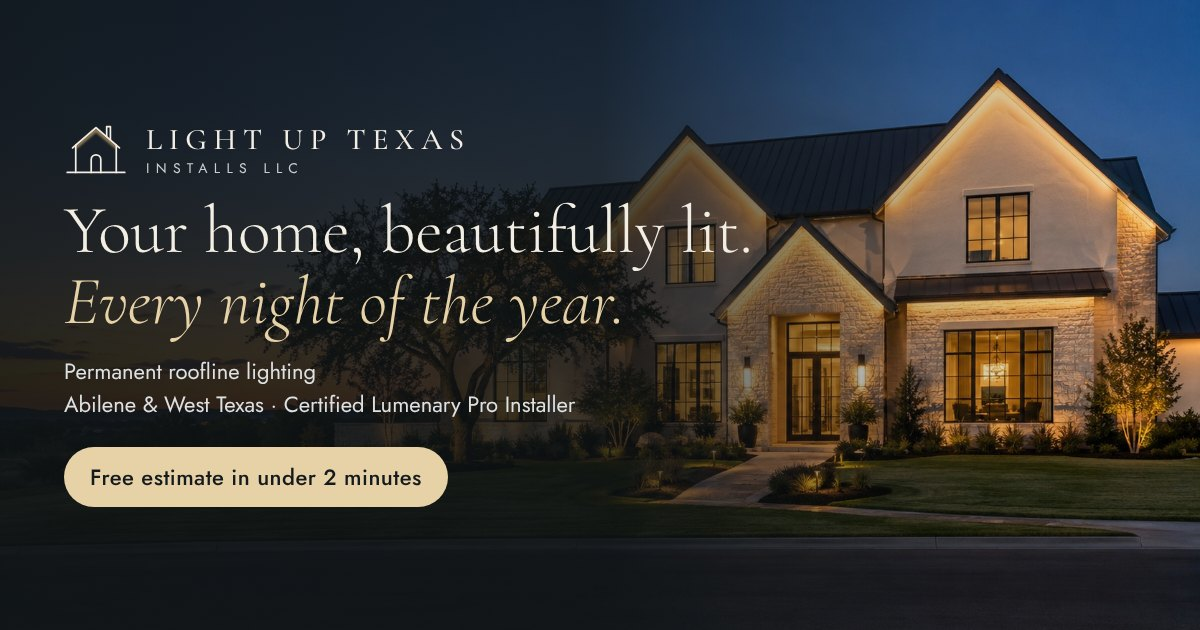
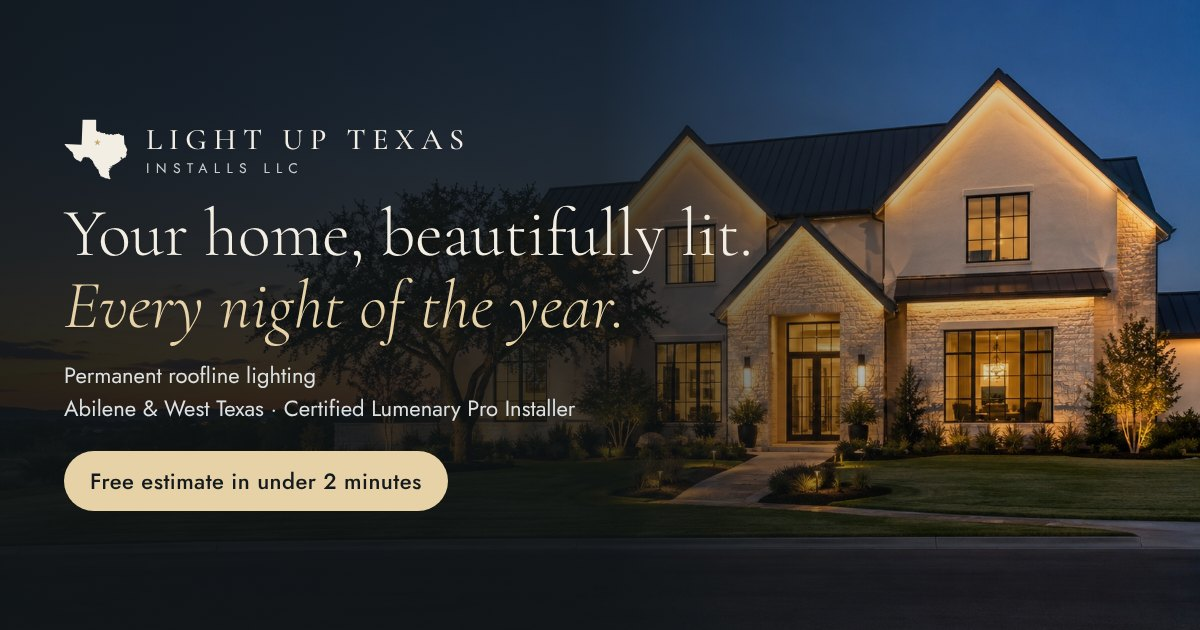
Add files via upload

diff --git a/app/page.tsx b/app/page.tsx
@@ -1,6 +1,7 @@
 import SiteHeader from '@/components/SiteHeader';
 import ColorScenes from '@/components/ColorScenes';
 import HeavyScroll from '@/components/HeavyScroll';
+import Faq from '@/components/Faq';
 import { SITE } from '@/config/site';
 
 export default function Home() {
@@ -299,49 +300,7 @@ export default function Home() {
           </div>
         </section>
       
-        <section style={{maxWidth: '800px', margin: '0 auto', padding: '88px 24px', display: 'flex', flexDirection: 'column', gap: '28px'}}>
-          <div style={{display: 'flex', flexDirection: 'column', gap: '12px'}}>
-            <h2 style={{margin: '0', fontFamily: "'Cormorant Garamond', serif", fontWeight: '300', fontSize: 'clamp(2rem, 3.6vw, 2.9rem)', lineHeight: 1.1}}>Good questions, straight answers</h2>
-          </div>
-          <div style={{display: 'flex', flexDirection: 'column', borderTop: '1px solid #D9D2C3'}}>
-            <details style={{borderBottom: '1px solid #D9D2C3', padding: '18px 0'}}>
-              <summary style={{cursor: 'pointer', fontSize: '17px', fontWeight: '500', minHeight: '28px'}}>Can you see the lights during the day?</summary>
-              <p style={{margin: '12px 0 0', fontSize: '15px', fontWeight: '300', lineHeight: 1.65, color: '#3A4549'}}>Barely. The track is cut to fit your home and comes in hundreds of colors to match your soffit and fascia. In daylight, most people only notice small, evenly spaced lenses.</p>
-            </details>
-            <details style={{borderBottom: '1px solid #D9D2C3', padding: '18px 0'}}>
-              <summary style={{cursor: 'pointer', fontSize: '17px', fontWeight: '500', minHeight: '28px'}}>Will it work on my house?</summary>
-              <p style={{margin: '12px 0 0', fontSize: '15px', fontWeight: '300', lineHeight: 1.65, color: '#3A4549'}}>Almost certainly. Every track is custom-made for the home, including houses with gutters in front of the soffit, no soffit at all, stucco, or unusual rooflines. We confirm the details at your free in-person measurement.</p>
-            </details>
-            <details style={{borderBottom: '1px solid #D9D2C3', padding: '18px 0'}}>
-              <summary style={{cursor: 'pointer', fontSize: '17px', fontWeight: '500', minHeight: '28px'}}>Will installation damage my roof?</summary>
-              <p style={{margin: '12px 0 0', fontSize: '15px', fontWeight: '300', lineHeight: 1.65, color: '#3A4549'}}>[ANSWER TO CONFIRM WITH CLIENT: how the track is mounted]</p>
-            </details>
-            <details style={{borderBottom: '1px solid #D9D2C3', padding: '18px 0'}}>
-              <summary style={{cursor: 'pointer', fontSize: '17px', fontWeight: '500', minHeight: '28px'}}>How long does installation take?</summary>
-              <p style={{margin: '12px 0 0', fontSize: '15px', fontWeight: '300', lineHeight: 1.65, color: '#3A4549'}}>Your track is made to measure first. Once it's ready, most homes are installed in a single day, and we walk you through the app before we leave.</p>
-            </details>
-            <details style={{borderBottom: '1px solid #D9D2C3', padding: '18px 0'}}>
-              <summary style={{cursor: 'pointer', fontSize: '17px', fontWeight: '500', minHeight: '28px'}}>How long will the lights last?</summary>
-              <p style={{margin: '12px 0 0', fontSize: '15px', fontWeight: '300', lineHeight: 1.65, color: '#3A4549'}}>The LEDs are rated for more than 100,000 hours, built for years of nightly use outdoors.</p>
-            </details>
-            <details style={{borderBottom: '1px solid #D9D2C3', padding: '18px 0'}}>
-              <summary style={{cursor: 'pointer', fontSize: '17px', fontWeight: '500', minHeight: '28px'}}>Is it expensive to run?</summary>
-              <p style={{margin: '12px 0 0', fontSize: '15px', fontWeight: '300', lineHeight: 1.65, color: '#3A4549'}}>No. Lighting an entire home draws less power than a single 200-watt bulb.</p>
-            </details>
-            <details style={{borderBottom: '1px solid #D9D2C3', padding: '18px 0'}}>
-              <summary style={{cursor: 'pointer', fontSize: '17px', fontWeight: '500', minHeight: '28px'}}>What's the warranty?</summary>
-              <p style={{margin: '12px 0 0', fontSize: '15px', fontWeight: '300', lineHeight: 1.65, color: '#3A4549'}}>[WARRANTY DETAILS TO CONFIRM WITH CLIENT]</p>
-            </details>
-            <details style={{borderBottom: '1px solid #D9D2C3', padding: '18px 0'}}>
-              <summary style={{cursor: 'pointer', fontSize: '17px', fontWeight: '500', minHeight: '28px'}}>What about my HOA?</summary>
-              <p style={{margin: '12px 0 0', fontSize: '15px', fontWeight: '300', lineHeight: 1.65, color: '#3A4549'}}>Rules vary by neighborhood. Mention it on your call and we'll help you check what your HOA allows before anything is installed.</p>
-            </details>
-            <details style={{borderBottom: '1px solid #D9D2C3', padding: '18px 0'}}>
-              <summary style={{cursor: 'pointer', fontSize: '17px', fontWeight: '500', minHeight: '28px'}}>When should I book to be lit for the holidays?</summary>
-              <p style={{margin: '12px 0 0', fontSize: '15px', fontWeight: '300', lineHeight: 1.65, color: '#3A4549'}}>As early as you can. Install dates fill up as the holidays get closer, and each track is custom-made before installation.</p>
-            </details>
-          </div>
-        </section>
+        <Faq />
       
         <section style={{background: '#141A1D', color: '#F3EEE4'}}>
           <div style={{maxWidth: '1120px', margin: '0 auto', padding: '88px 24px', display: 'flex', flexDirection: 'column', alignItems: 'center', textAlign: 'center', gap: '22px'}}>
